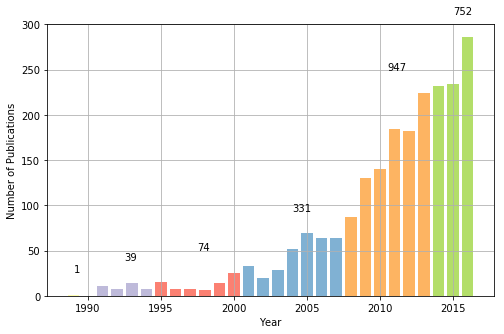
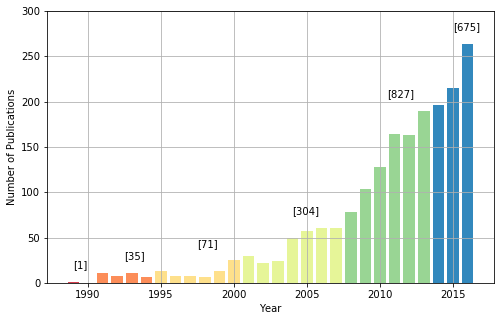
update cluster totals

diff --git a/tech_proportions.py b/tech_proportions.py
@@ -33,8 +33,8 @@ qid = 1498
 # In[20]:
 
 fnames = [
-    'bib_data/1990-2005/pre_2006_2 [Nodes].csv',
-    'bib_data/1990-2017/all_years [Nodes].csv',
+    'bib_data/1990-2005/pre_2006_3 [Nodes].csv',
+    'bib_data/1990-2017/all_years_3 [Nodes].csv',
 ]
 
 for fname in fnames:
